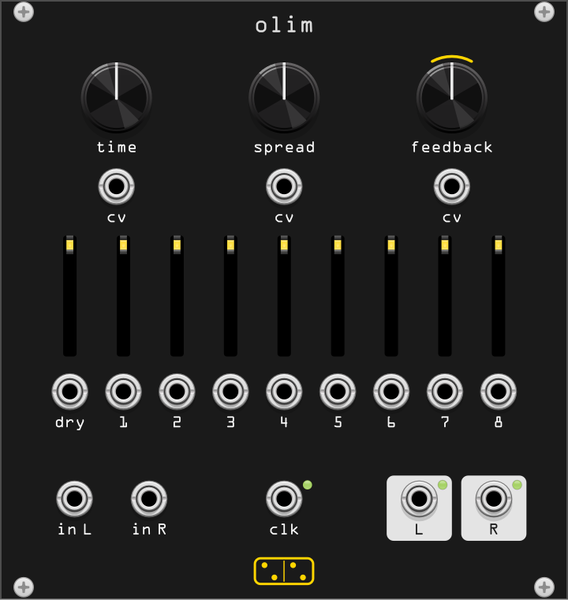
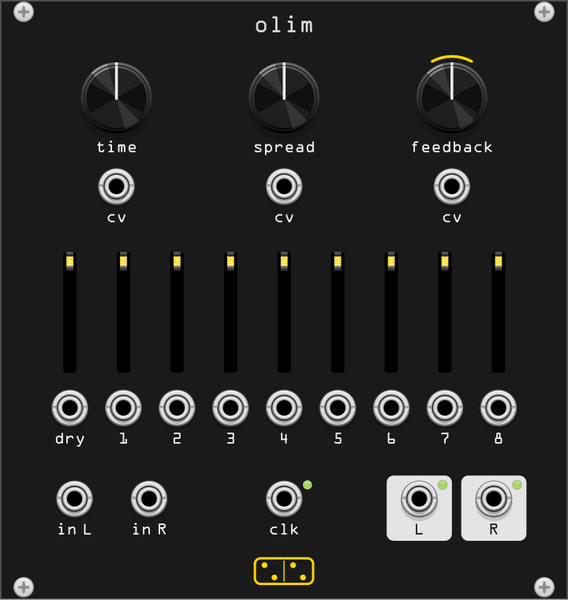
fix(olim): the slider block 3.5 mm lower
It sat 3 mm under the CV labels and 10.5 mm over the bottom row; now
6.5 and 7 mm.

diff --git a/src/olim.cpp b/src/olim.cpp
@@ -630,15 +630,15 @@ struct OlimWidget : ModuleWidget {
 // @elem LABEL_TIME_CV label 0.0 label "cv" 0.0 25.00 47.50
 // @elem LABEL_SPREAD_CV label 0.0 label "cv" 0.0 61.00 47.50
 // @elem LABEL_FEEDBACK_CV label 0.0 label "cv" 0.0 97.00 47.50
-// @elem LABEL_DRY label 0.0 label "dry" 0.0 15.00 91.50
-// @elem LABEL_H1 label 0.0 label "1" 0.0 26.50 91.50
-// @elem LABEL_H2 label 0.0 label "2" 0.0 38.00 91.50
-// @elem LABEL_H3 label 0.0 label "3" 0.0 49.50 91.50
-// @elem LABEL_H4 label 0.0 label "4" 0.0 61.00 91.50
-// @elem LABEL_H5 label 0.0 label "5" 0.0 72.50 91.50
-// @elem LABEL_H6 label 0.0 label "6" 0.0 84.00 91.50
-// @elem LABEL_H7 label 0.0 label "7" 0.0 95.50 91.50
-// @elem LABEL_H8 label 0.0 label "8" 0.0 107.00 91.50
+// @elem LABEL_DRY label 0.0 label "dry" 0.0 15.00 95.00
+// @elem LABEL_H1 label 0.0 label "1" 0.0 26.50 95.00
+// @elem LABEL_H2 label 0.0 label "2" 0.0 38.00 95.00
+// @elem LABEL_H3 label 0.0 label "3" 0.0 49.50 95.00
+// @elem LABEL_H4 label 0.0 label "4" 0.0 61.00 95.00
+// @elem LABEL_H5 label 0.0 label "5" 0.0 72.50 95.00
+// @elem LABEL_H6 label 0.0 label "6" 0.0 84.00 95.00
+// @elem LABEL_H7 label 0.0 label "7" 0.0 95.50 95.00
+// @elem LABEL_H8 label 0.0 label "8" 0.0 107.00 95.00
 // @elem LABEL_IN_L label 0.0 label "in L" 0.0 16.00 114.50
 // @elem LABEL_IN_R label 0.0 label "in R" 0.0 32.00 114.50
 // @elem LABEL_CLK label 0.0 label "clk" 0.0 61.00 114.50
@@ -658,24 +658,24 @@ struct OlimWidget : ModuleWidget {
         addInput(createInputCentered<PJ301MPort>(mm2px(Vec(25.00f, 40.00f)), module, Olim::TIME_CV_INPUT));
         addInput(createInputCentered<PJ301MPort>(mm2px(Vec(61.00f, 40.00f)), module, Olim::SPREAD_CV_INPUT));
         addInput(createInputCentered<PJ301MPort>(mm2px(Vec(97.00f, 40.00f)), module, Olim::FEEDBACK_CV_INPUT));
-        addParam(createLightParamCentered<VCVLightSlider<YellowLight>>(mm2px(Vec(15.00f, 63.50f)), module, Olim::DRY_PARAM, Olim::DRY_LIGHT));
-        addParam(createLightParamCentered<VCVLightSlider<YellowLight>>(mm2px(Vec(26.50f, 63.50f)), module, Olim::HEAD1_PARAM, Olim::HEAD1_LIGHT));
-        addParam(createLightParamCentered<VCVLightSlider<YellowLight>>(mm2px(Vec(38.00f, 63.50f)), module, Olim::HEAD2_PARAM, Olim::HEAD2_LIGHT));
-        addParam(createLightParamCentered<VCVLightSlider<YellowLight>>(mm2px(Vec(49.50f, 63.50f)), module, Olim::HEAD3_PARAM, Olim::HEAD3_LIGHT));
-        addParam(createLightParamCentered<VCVLightSlider<YellowLight>>(mm2px(Vec(61.00f, 63.50f)), module, Olim::HEAD4_PARAM, Olim::HEAD4_LIGHT));
-        addParam(createLightParamCentered<VCVLightSlider<YellowLight>>(mm2px(Vec(72.50f, 63.50f)), module, Olim::HEAD5_PARAM, Olim::HEAD5_LIGHT));
-        addParam(createLightParamCentered<VCVLightSlider<YellowLight>>(mm2px(Vec(84.00f, 63.50f)), module, Olim::HEAD6_PARAM, Olim::HEAD6_LIGHT));
-        addParam(createLightParamCentered<VCVLightSlider<YellowLight>>(mm2px(Vec(95.50f, 63.50f)), module, Olim::HEAD7_PARAM, Olim::HEAD7_LIGHT));
-        addParam(createLightParamCentered<VCVLightSlider<YellowLight>>(mm2px(Vec(107.00f, 63.50f)), module, Olim::HEAD8_PARAM, Olim::HEAD8_LIGHT));
-        addInput(createInputCentered<PJ301MPort>(mm2px(Vec(15.00f, 84.00f)), module, Olim::DRY_VCA_INPUT));
-        addInput(createInputCentered<PJ301MPort>(mm2px(Vec(26.50f, 84.00f)), module, Olim::HEAD1_VCA_INPUT));
-        addInput(createInputCentered<PJ301MPort>(mm2px(Vec(38.00f, 84.00f)), module, Olim::HEAD2_VCA_INPUT));
-        addInput(createInputCentered<PJ301MPort>(mm2px(Vec(49.50f, 84.00f)), module, Olim::HEAD3_VCA_INPUT));
-        addInput(createInputCentered<PJ301MPort>(mm2px(Vec(61.00f, 84.00f)), module, Olim::HEAD4_VCA_INPUT));
-        addInput(createInputCentered<PJ301MPort>(mm2px(Vec(72.50f, 84.00f)), module, Olim::HEAD5_VCA_INPUT));
-        addInput(createInputCentered<PJ301MPort>(mm2px(Vec(84.00f, 84.00f)), module, Olim::HEAD6_VCA_INPUT));
-        addInput(createInputCentered<PJ301MPort>(mm2px(Vec(95.50f, 84.00f)), module, Olim::HEAD7_VCA_INPUT));
-        addInput(createInputCentered<PJ301MPort>(mm2px(Vec(107.00f, 84.00f)), module, Olim::HEAD8_VCA_INPUT));
+        addParam(createLightParamCentered<VCVLightSlider<YellowLight>>(mm2px(Vec(15.00f, 67.00f)), module, Olim::DRY_PARAM, Olim::DRY_LIGHT));
+        addParam(createLightParamCentered<VCVLightSlider<YellowLight>>(mm2px(Vec(26.50f, 67.00f)), module, Olim::HEAD1_PARAM, Olim::HEAD1_LIGHT));
+        addParam(createLightParamCentered<VCVLightSlider<YellowLight>>(mm2px(Vec(38.00f, 67.00f)), module, Olim::HEAD2_PARAM, Olim::HEAD2_LIGHT));
+        addParam(createLightParamCentered<VCVLightSlider<YellowLight>>(mm2px(Vec(49.50f, 67.00f)), module, Olim::HEAD3_PARAM, Olim::HEAD3_LIGHT));
+        addParam(createLightParamCentered<VCVLightSlider<YellowLight>>(mm2px(Vec(61.00f, 67.00f)), module, Olim::HEAD4_PARAM, Olim::HEAD4_LIGHT));
+        addParam(createLightParamCentered<VCVLightSlider<YellowLight>>(mm2px(Vec(72.50f, 67.00f)), module, Olim::HEAD5_PARAM, Olim::HEAD5_LIGHT));
+        addParam(createLightParamCentered<VCVLightSlider<YellowLight>>(mm2px(Vec(84.00f, 67.00f)), module, Olim::HEAD6_PARAM, Olim::HEAD6_LIGHT));
+        addParam(createLightParamCentered<VCVLightSlider<YellowLight>>(mm2px(Vec(95.50f, 67.00f)), module, Olim::HEAD7_PARAM, Olim::HEAD7_LIGHT));
+        addParam(createLightParamCentered<VCVLightSlider<YellowLight>>(mm2px(Vec(107.00f, 67.00f)), module, Olim::HEAD8_PARAM, Olim::HEAD8_LIGHT));
+        addInput(createInputCentered<PJ301MPort>(mm2px(Vec(15.00f, 87.50f)), module, Olim::DRY_VCA_INPUT));
+        addInput(createInputCentered<PJ301MPort>(mm2px(Vec(26.50f, 87.50f)), module, Olim::HEAD1_VCA_INPUT));
+        addInput(createInputCentered<PJ301MPort>(mm2px(Vec(38.00f, 87.50f)), module, Olim::HEAD2_VCA_INPUT));
+        addInput(createInputCentered<PJ301MPort>(mm2px(Vec(49.50f, 87.50f)), module, Olim::HEAD3_VCA_INPUT));
+        addInput(createInputCentered<PJ301MPort>(mm2px(Vec(61.00f, 87.50f)), module, Olim::HEAD4_VCA_INPUT));
+        addInput(createInputCentered<PJ301MPort>(mm2px(Vec(72.50f, 87.50f)), module, Olim::HEAD5_VCA_INPUT));
+        addInput(createInputCentered<PJ301MPort>(mm2px(Vec(84.00f, 87.50f)), module, Olim::HEAD6_VCA_INPUT));
+        addInput(createInputCentered<PJ301MPort>(mm2px(Vec(95.50f, 87.50f)), module, Olim::HEAD7_VCA_INPUT));
+        addInput(createInputCentered<PJ301MPort>(mm2px(Vec(107.00f, 87.50f)), module, Olim::HEAD8_VCA_INPUT));
         addInput(createInputCentered<PJ301MPort>(mm2px(Vec(16.00f, 107.00f)), module, Olim::IN_L_INPUT));
         addInput(createInputCentered<PJ301MPort>(mm2px(Vec(32.00f, 107.00f)), module, Olim::IN_R_INPUT));
         addInput(createInputCentered<PJ301MPort>(mm2px(Vec(61.00f, 107.00f)), module, Olim::CLOCK_INPUT));
